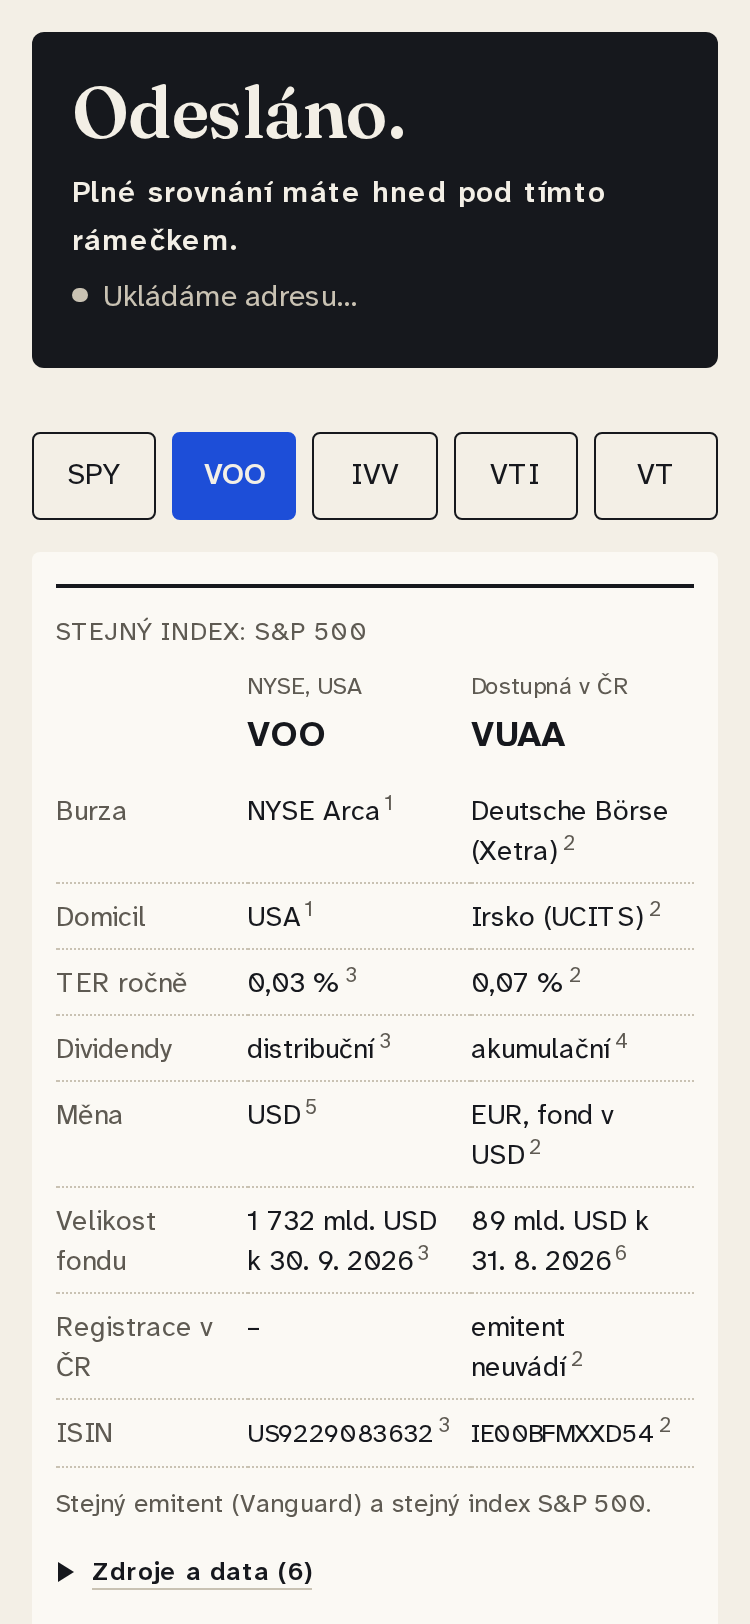
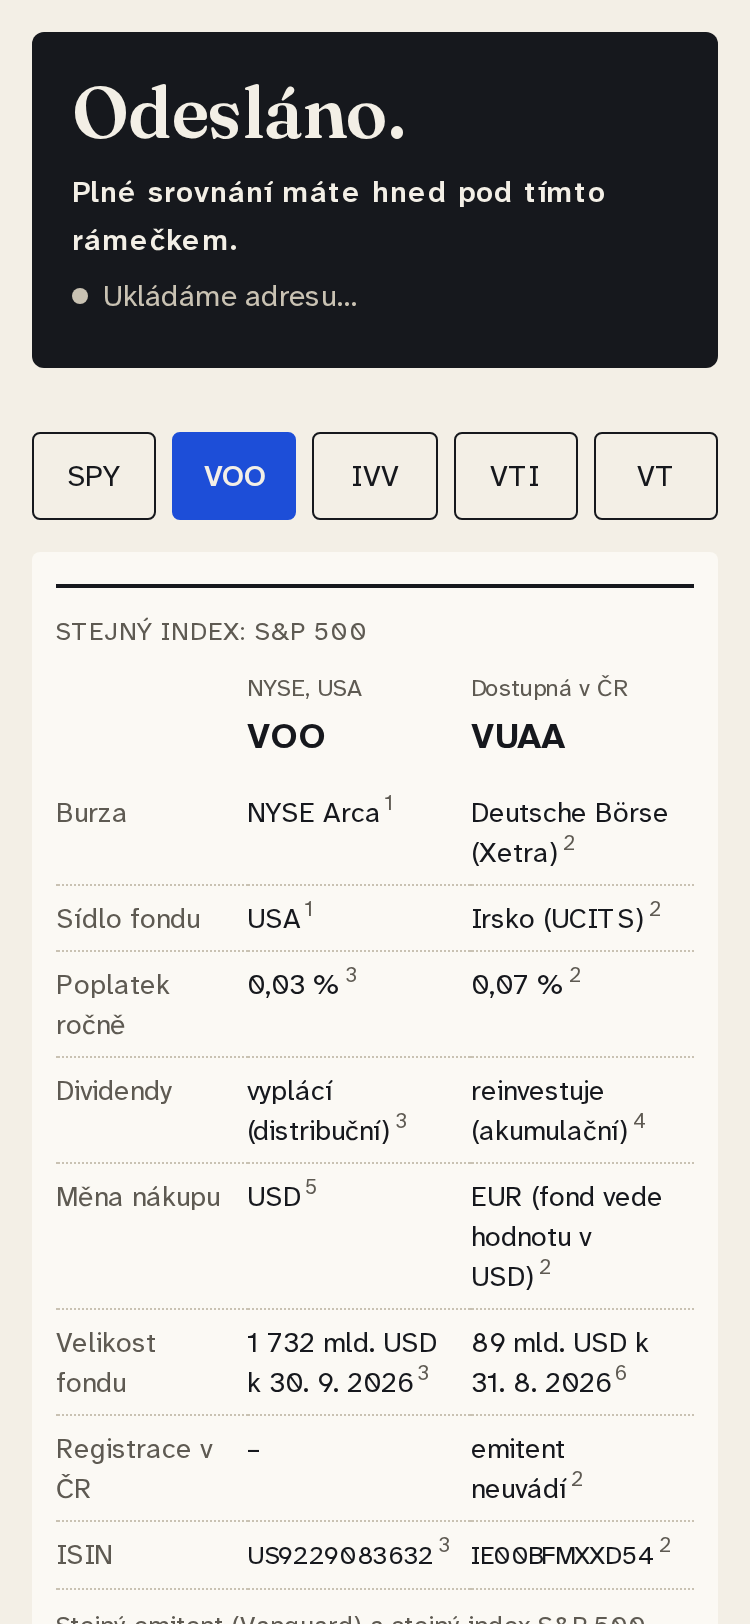
Vysvětlivky: tlačítkem je celý pojem „KID?“, tečkovaně podtržený, otevřený kobaltově
Kulaté tlačítko „?“ zvětšovalo řádek a působilo jako ovládací prvek
navíc. Přístupnost beze změny (aria-expanded, název „Co je KID?“,
klávesnice, viditelný focus), klepací plocha 24 px přes ::before.
Výška sekcí −2 až −4 px, počet řádků stejný, hero beze změny.
Snímky po přegenerované, nový 6-vysvetlivka.png.

diff --git a/components/Term.tsx b/components/Term.tsx
@@ -3,8 +3,10 @@
 import { useId, useState } from "react";
 
 /**
- * Odborný pojem s vysvětlením na klepnutí: tlačítko „?“ (aria-expanded) odkryje jednu větu hned
- * pod řádkem. Žádný tooltip na hover – na mobilu nefunguje. Ovládá se Enterem i mezerníkem.
+ * Odborný pojem s vysvětlením na klepnutí. Tlačítkem je celý pojem s otazníkem („KID?“), vypadá jako text
+ * s tečkovaným podtržením (odkazy mají plné). Otevřený stav kobaltově. Vysvětlení (jedna věta) se odkryje
+ * hned pod řádkem. Žádný tooltip na hover – na mobilu nefunguje. Ovládá se Enterem i mezerníkem.
+ * Klepací plochu na 24 px výšky (WCAG 2.5.8) rozšiřuje ::before, text se neposune.
  * Vysvětlení je <span class="block">, takže jde použít i uvnitř odstavce.
  * `name`: celý pojem pro přístupný název tlačítka, když `term` v textu je jen jeho část („aktivní“ → „aktivní fond“).
  * `suffix`: interpunkce za pojmem, aby po rozbalení nezačínal další řádek čárkou.
@@ -24,16 +26,18 @@ export function Term({
   const id = useId();
   return (
     <>
-      {term}
       <button
         type="button"
         aria-expanded={open}
         aria-controls={id}
         aria-label={`Co je ${name}?`}
         onClick={() => setOpen(!open)}
-        className="press mx-0.5 inline-flex size-6 items-center justify-center rounded-full border border-ink align-middle text-[13px] leading-none font-semibold outline-offset-2 focus-visible:outline-2 aria-expanded:bg-ink aria-expanded:text-paper"
+        className="relative cursor-pointer text-ink underline decoration-dotted decoration-[1.5px] underline-offset-4 outline-offset-2 before:absolute before:-inset-x-1 before:-inset-y-1.5 before:content-[''] focus-visible:rounded-sm focus-visible:outline-2 aria-expanded:text-action"
       >
-        ?
+        {term}
+        <sup aria-hidden className="ml-px text-[0.7em] font-semibold">
+          ?
+        </sup>
       </button>
       {suffix}
       <span id={id} hidden={!open} className="fine my-1 block border-l-2 border-rule pl-3">

diff --git a/e2e/landing.spec.ts b/e2e/landing.spec.ts
@@ -156,9 +156,24 @@ test("pojmy pro laika: „?“ u KID a UCITS se ovládá klávesnicí, řádky s
   const explanation = section.locator(`#${(await kid.getAttribute("aria-controls"))!.replace(/:/g, "\\:")}`);
   await expect(kid).toHaveAttribute("aria-expanded", "false");
   await expect(explanation).toBeHidden();
+  // vypadá jako text: pojem s otazníkem, tečkované podtržení (odkazy mají plné), zavřený v barvě textu
+  await expect(kid).toHaveText("KID?");
+  await expect(kid).toHaveCSS("text-decoration-style", "dotted");
+  await expect(kid).toHaveCSS("color", "rgb(22, 24, 29)");
+  // klepací plocha aspoň 24 × 24 px (WCAG 2.5.8): body 12 px od středu zasáhnou tlačítko
+  await kid.scrollIntoViewIfNeeded();
+  const hits = await kid.evaluate((el) => {
+    const r = el.getBoundingClientRect();
+    const [x, y] = [r.left + r.width / 2, r.top + r.height / 2];
+    return [[x, y - 12], [x, y + 11.5], [x - 12, y], [x + 11.5, y]].map(
+      ([px, py]) => document.elementFromPoint(px, py)?.closest("button") === el,
+    );
+  });
+  expect(hits).toEqual([true, true, true, true]);
   await kid.focus();
   await page.keyboard.press("Enter");
   await expect(kid).toHaveAttribute("aria-expanded", "true");
+  await expect(kid).toHaveCSS("color", "rgb(29, 78, 216)"); // otevřený kobaltově
   await expect(explanation).toContainText("nejvýš 3 strany A4");
   await page.keyboard.press("Space");
   await expect(explanation).toBeHidden();
